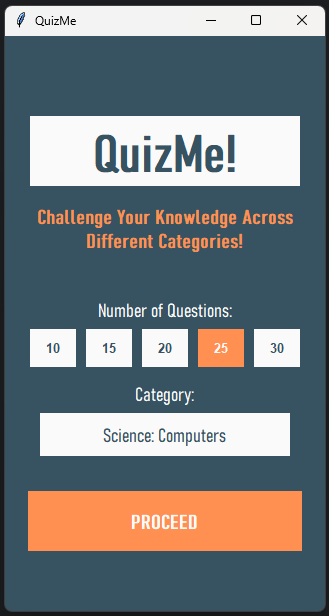
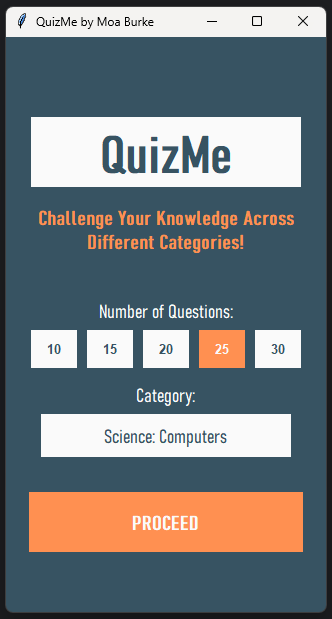
Initial commit

diff --git a/setup.py b/setup.py
@@ -46,7 +46,7 @@ class QuizSetup:
 
         # Create the main application window
         self.window = Tk()
-        self.window.title("QuizMe") # Set window title
+        self.window.title("QuizMe by Moa Burke") # Set window title
         self.window.config(padx=20, pady=30, bg=MAIN_COLOR) # Padding and background color
 
         # Display the welcome message at the top of the setup screen
@@ -68,7 +68,7 @@ class QuizSetup:
         """Creates and displays the main welcome messages at the top of the screen."""
         # Main title label
         self.welcome_message_top = Label(
-            text="QuizMe!",
+            text="QuizMe",
             width=12,
             bg=SECONDARY_COLOR,
             fg=MAIN_COLOR,
